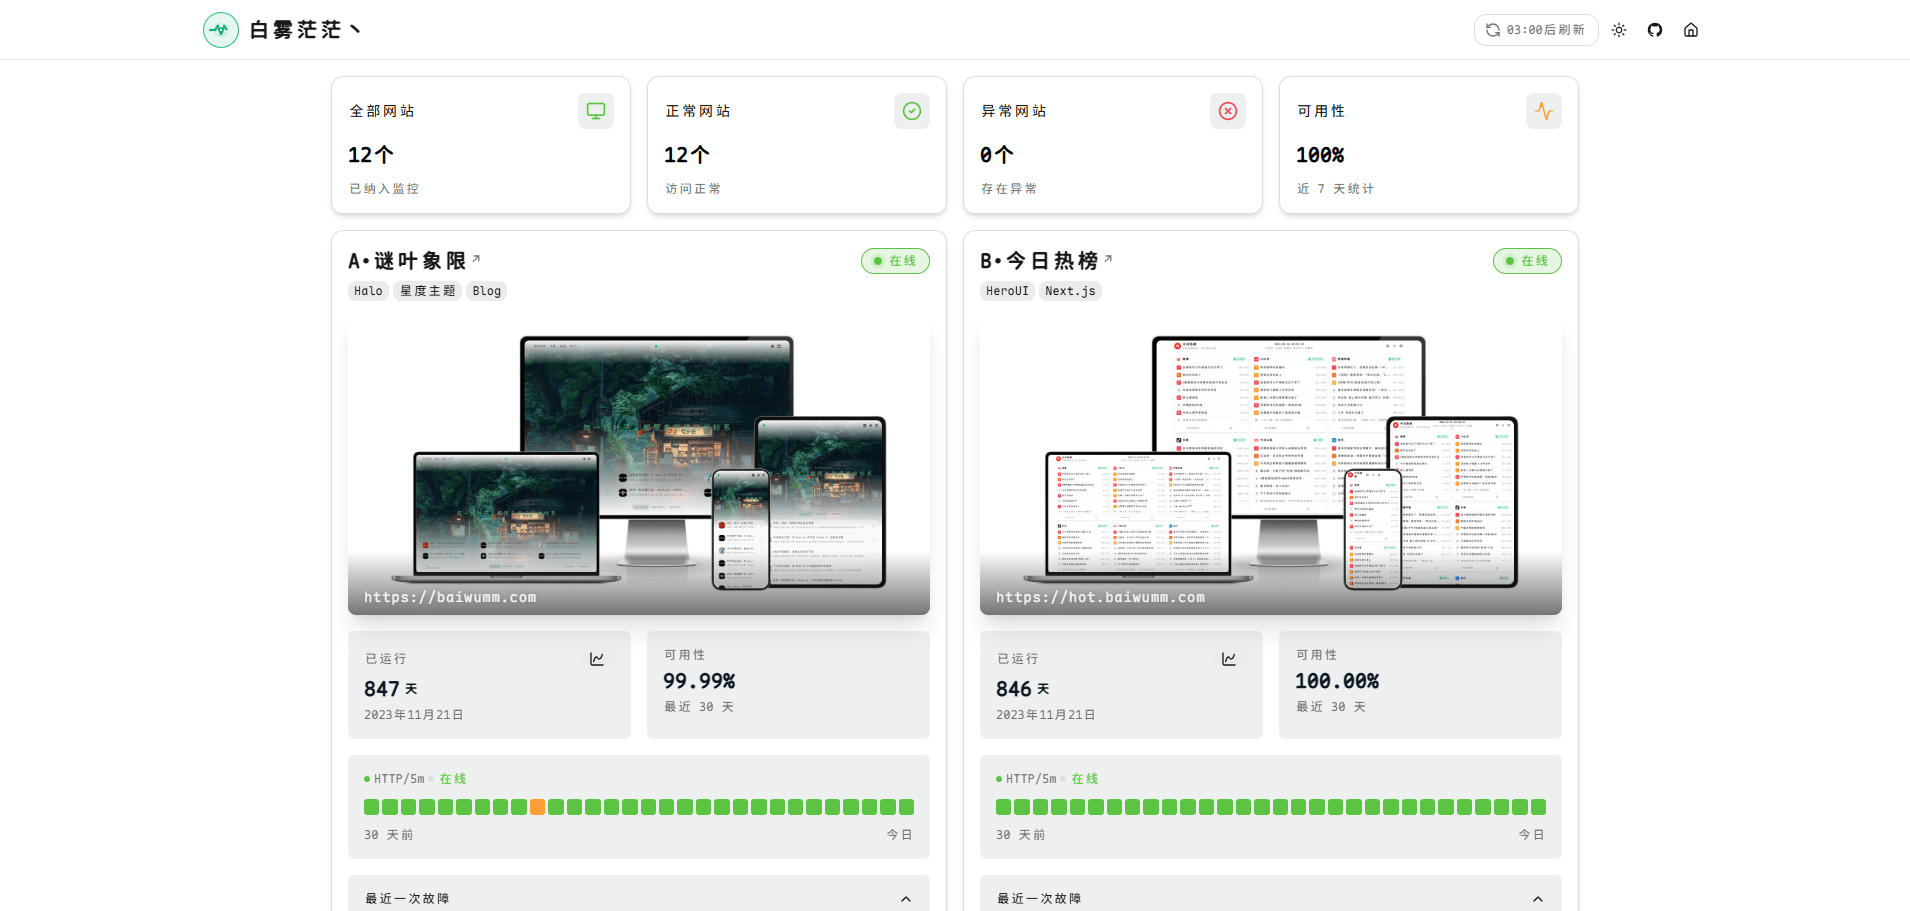
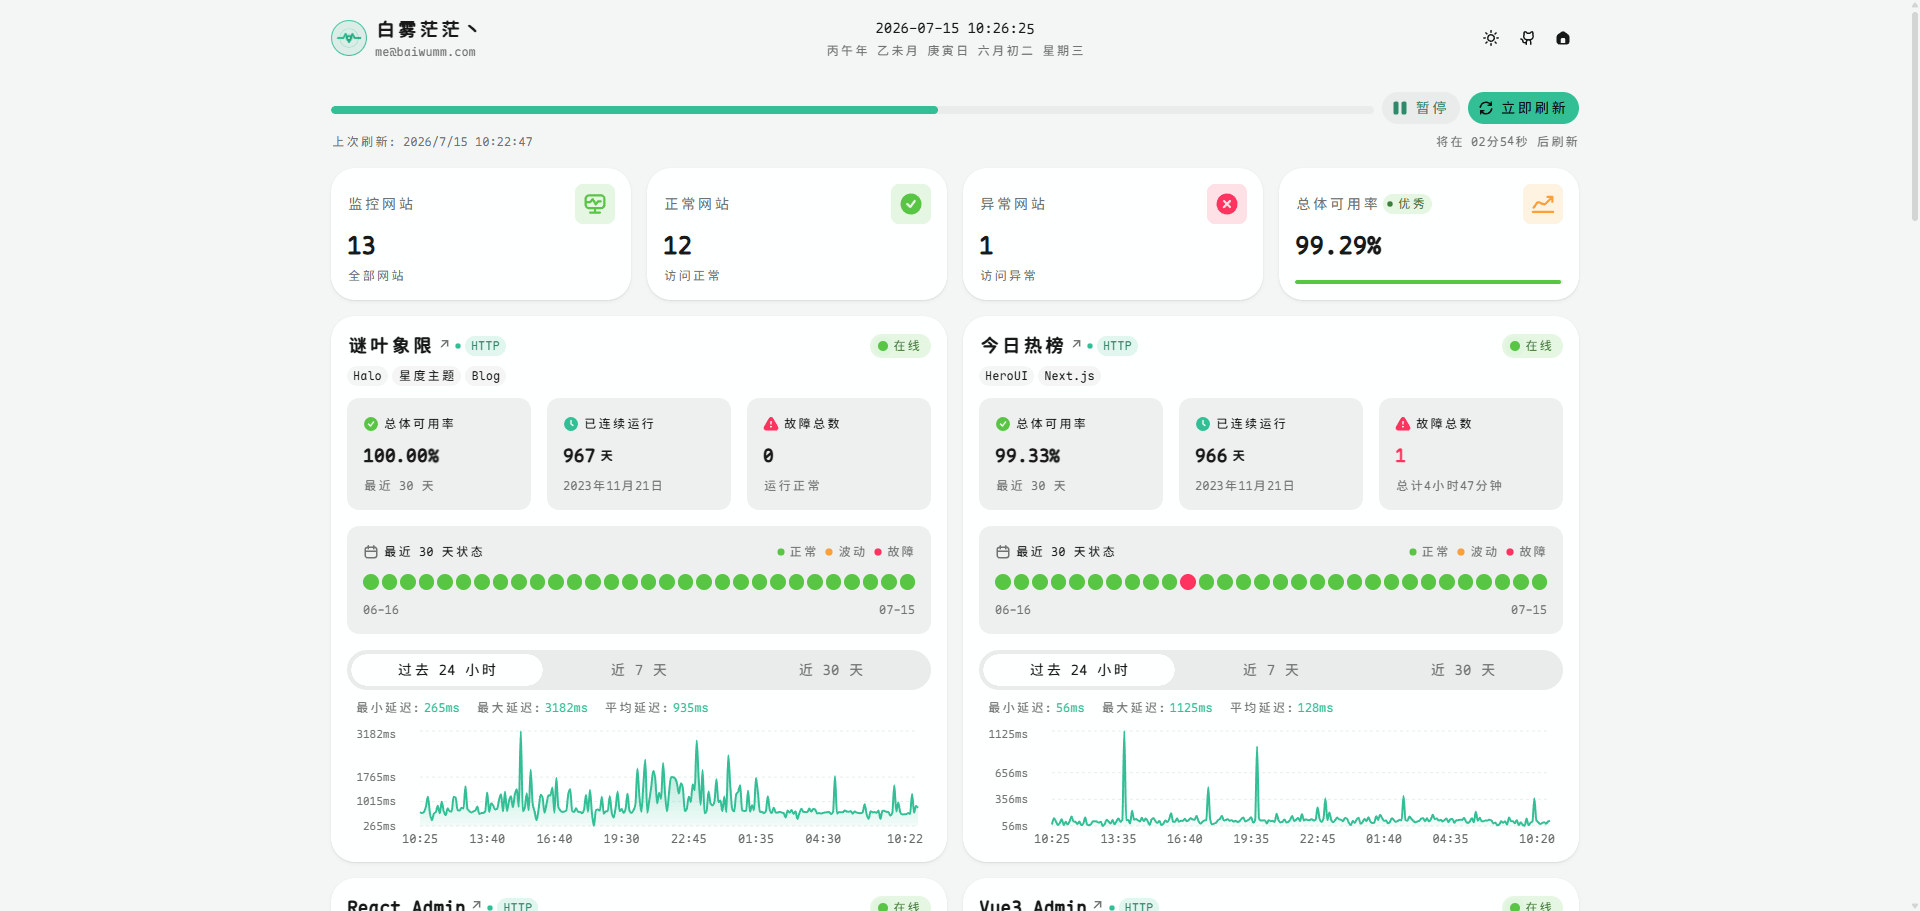
feat: update README.md

diff --git a/README.md b/README.md
@@ -20,13 +20,9 @@
   </a>
 </div>
 
+## 🚀 项目简介
 
-
-参考项目：[Uptime-Status](https://github.com/JLinMr/Uptime-Status)，主要做了以下改进：
-1. 使用 Next.js16.x 版本开发，解决 [UptimeRobot API](https://uptimerobot.com/) 跨域的问题
-2. 基于最新的 [UptimeRobot's v3 REST API](https://uptimerobot.com/api/v3/)
-2. 基于 [Hero UI](https://www.heroui.com) 和最新的 [TailwindCSS 4.x](https://tailwindcss.com/) 版本
-3. 基于 [Motion](https://motion.dev/) 动画库
+基于 [Next.js](https://nextjs.org/) 构建的 [UptimeRobot API](https://uptimerobot.com/) 站点监控平台，实时监测网站运行状态，提供可视化报表与提醒功能，帮助你快速掌握服务可用性与性能健康状况。
 
 ## 💻 演示预览
 
@@ -42,7 +38,7 @@
 
 - 📊 实时监控网站状态（在线/离线/暂停）
 - 📈 监控健康概览（总体可用率、可视化响应时间图表）
-- 📅 最近一次故障记录查看
+- 📅 故障记录查看
 - 🎨 响应式设计，支持深色/浅色主题
 - ⚡ 动画效果，流畅用户体验
 - 📱 移动端适配
@@ -78,27 +74,22 @@ pnpm install
 ```env
 # UptimeRobot API Key
 UPTIMEROBOT_API_KEY = "xxx"
-# API 代理地址
-UPTIMEROBOT_API_URL = "https://api.uptimerobot.com/v3/monitors"
-# Status Pages URL
-UPTIMEROBOT_STATUS_API_URL = "https://stats.uptimerobot.com/api"
-UPTIMEROBOT_STATUS_API_KEY = "xxx"
 
 # 网站域名
-NEXT_PUBLIC_APP_URL = 'https://monitor.baiwumm.com'
+NEXT_PUBLIC_APP_URL = 'https://status.baiwumm.com'
 # 网站名称
-NEXT_PUBLIC_APP_NAME = 'better-status'
+NEXT_PUBLIC_APP_NAME = 'Better Status'
 # 网站描述
 NEXT_PUBLIC_APP_DESC = '一个优雅的站点状态监控面板'
 # 网站关键词
-NEXT_PUBLIC_APP_KEYWORDS = 'better-status,UptimeRobot, 网站监控, API监控, 服务可用性, 站点状态, 网站宕机检测, 服务器健康监测, 实时监控, 可视化报表'
+NEXT_PUBLIC_APP_KEYWORDS = 'Better Status,UptimeRobot, 网站监控, API监控, 服务可用性, 站点状态, 网站宕机检测, 服务器健康监测, 实时监控, 可视化报表'
 # 网站ICP
 NEXT_PUBLIC_SITE_ICP = '粤ICP备2023007649号'
 # 网站公网备案
 NEXT_PUBLIC_SITE_GUAN_ICP = '粤公网安备44030402006402号'
 # 版权
 NEXT_PUBLIC_COPYRIGHT = '白雾茫茫丶'
-# 检测频率/分钟
+# 检测频率/分钟，限制范围：1-60
 NEXT_PUBLIC_INTERVAL = '5'
 ```
 
@@ -108,36 +99,20 @@ NEXT_PUBLIC_INTERVAL = '5'
 pnpm dev
 ```
 
-访问 http://localhost:5173 查看应用。
+访问 http://localhost:3000 查看应用。
 
-## 🚀 部署
+## 🚀 Vercel 一键部署
 
-```bash
-# 构建生产版本
-pnpm build
+[![Deploy with Vercel](https://vercel.com/button)](https://vercel.com/new/clone?repository-url=https://github.com/baiwumm/better-status)
 
-# 启动生产服务器
-pnpm start
-```
+**手动部署步骤：**
 
-## 📁 项目结构
+1. Fork 本项目到你的 GitHub 账户
+2. 在 [Vercel](https://vercel.com/dashboard) 中点击 "New Project"
+3. 选择你 Fork 的项目仓库
+4. 保持默认配置，点击 "Deploy"
+5. 等待部署完成，获取访问链接
 
-```
-src/
-├── app/                 # Next.js 应用目录
-│   ├── api/             # API 路由
-│   └── components/      # 全局组件
-├── components/          # 页面组件
-└── lib/                 # 工具函数和类型定义
-```
-
-## 📝 使用说明
-
-1. 获取 [UptimeRobot](https://uptimerobot.com/) API 密钥
-2. 在 UptimeRobot 中配置需要监控的网站
-3. 在 [Status pages](https://dashboard.uptimerobot.com/status) 添加所有的网站，获取地址后面的 Key，填入 `.env` 文件中
-3. 将 API 密钥添加到环境变量中
-4. 启动应用即可查看网站监控状态
 
 ## 🤝 贡献
 
@@ -145,4 +120,10 @@ src/
 
 ## 📄 许可证
 
-[MIT](./LICENSE) © [baiwumm](https://github.com/baiwumm)
+本项目基于 [MIT 许可证]( LICENSE) 开源。
+
+## ⭐ Star History
+
+<div align="center">
+  <img src="https://api.star-history.com/svg?repos=baiwumm/better-status&type=Date" alt="Star History Chart" width="600"/>
+</div>